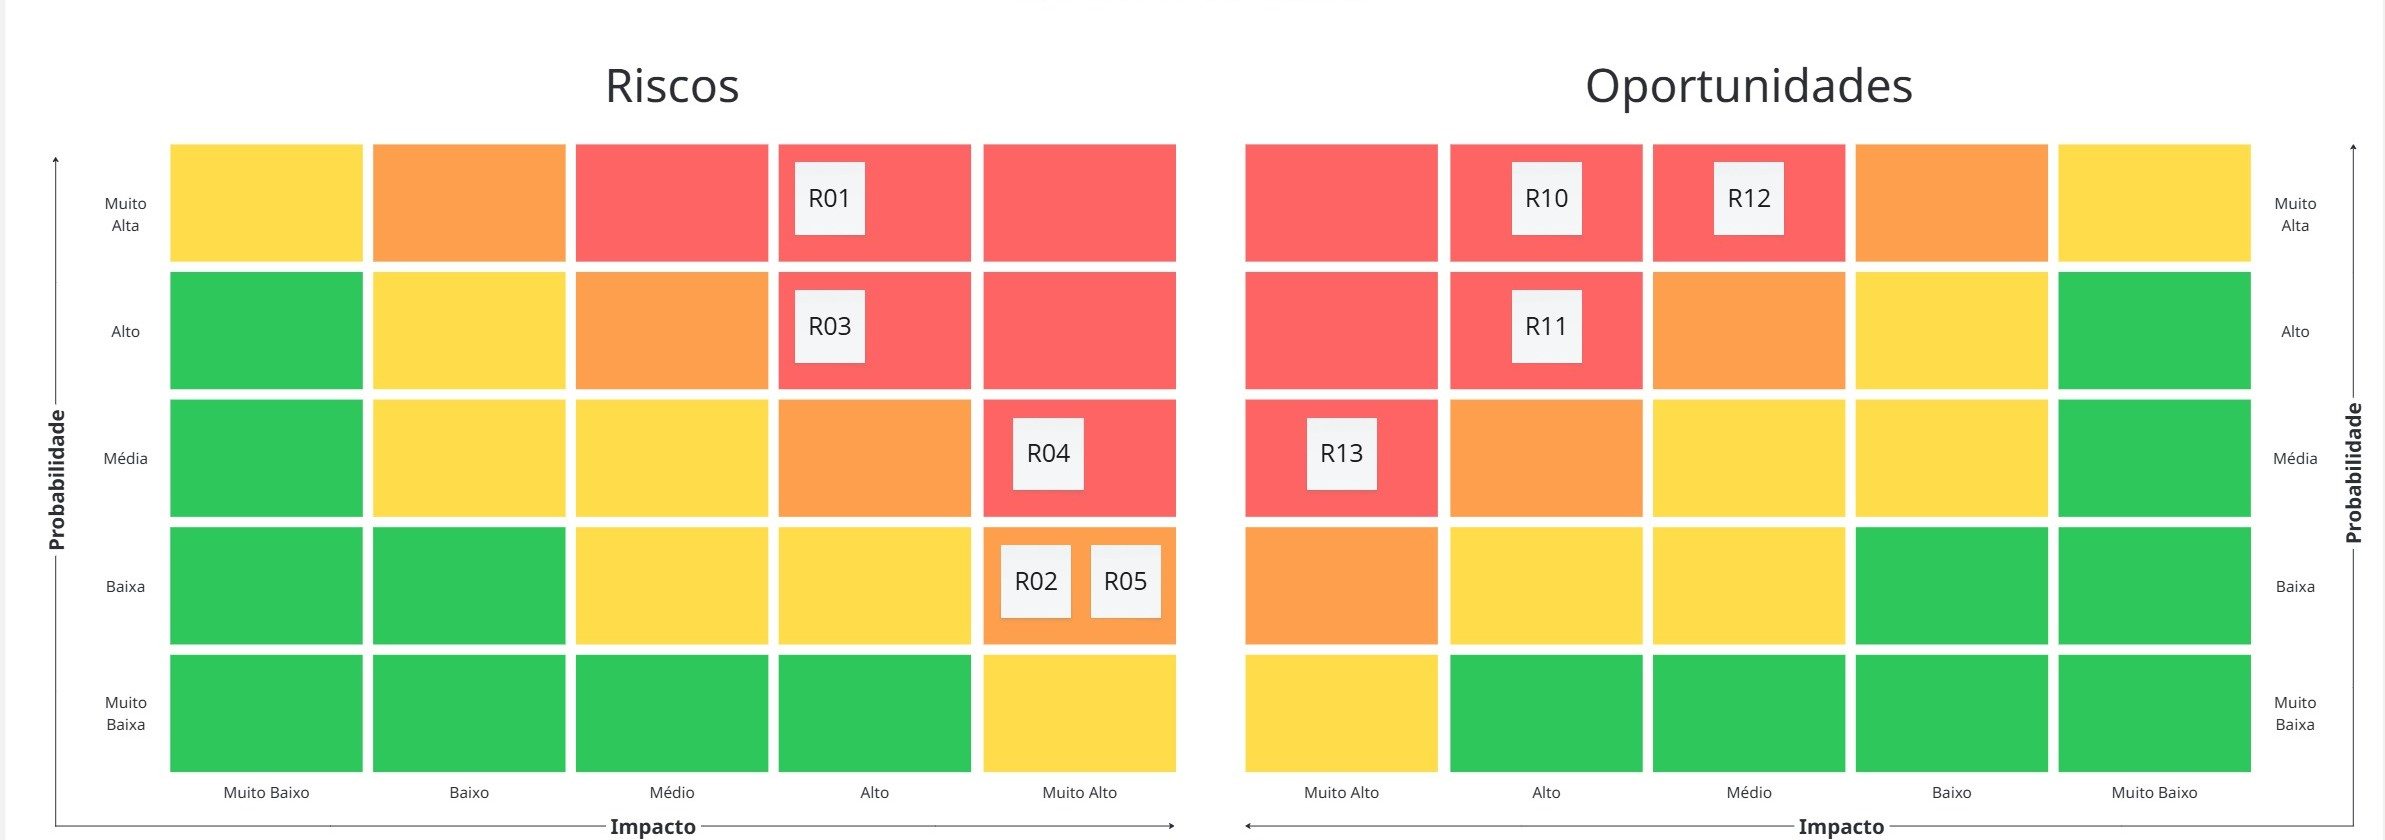
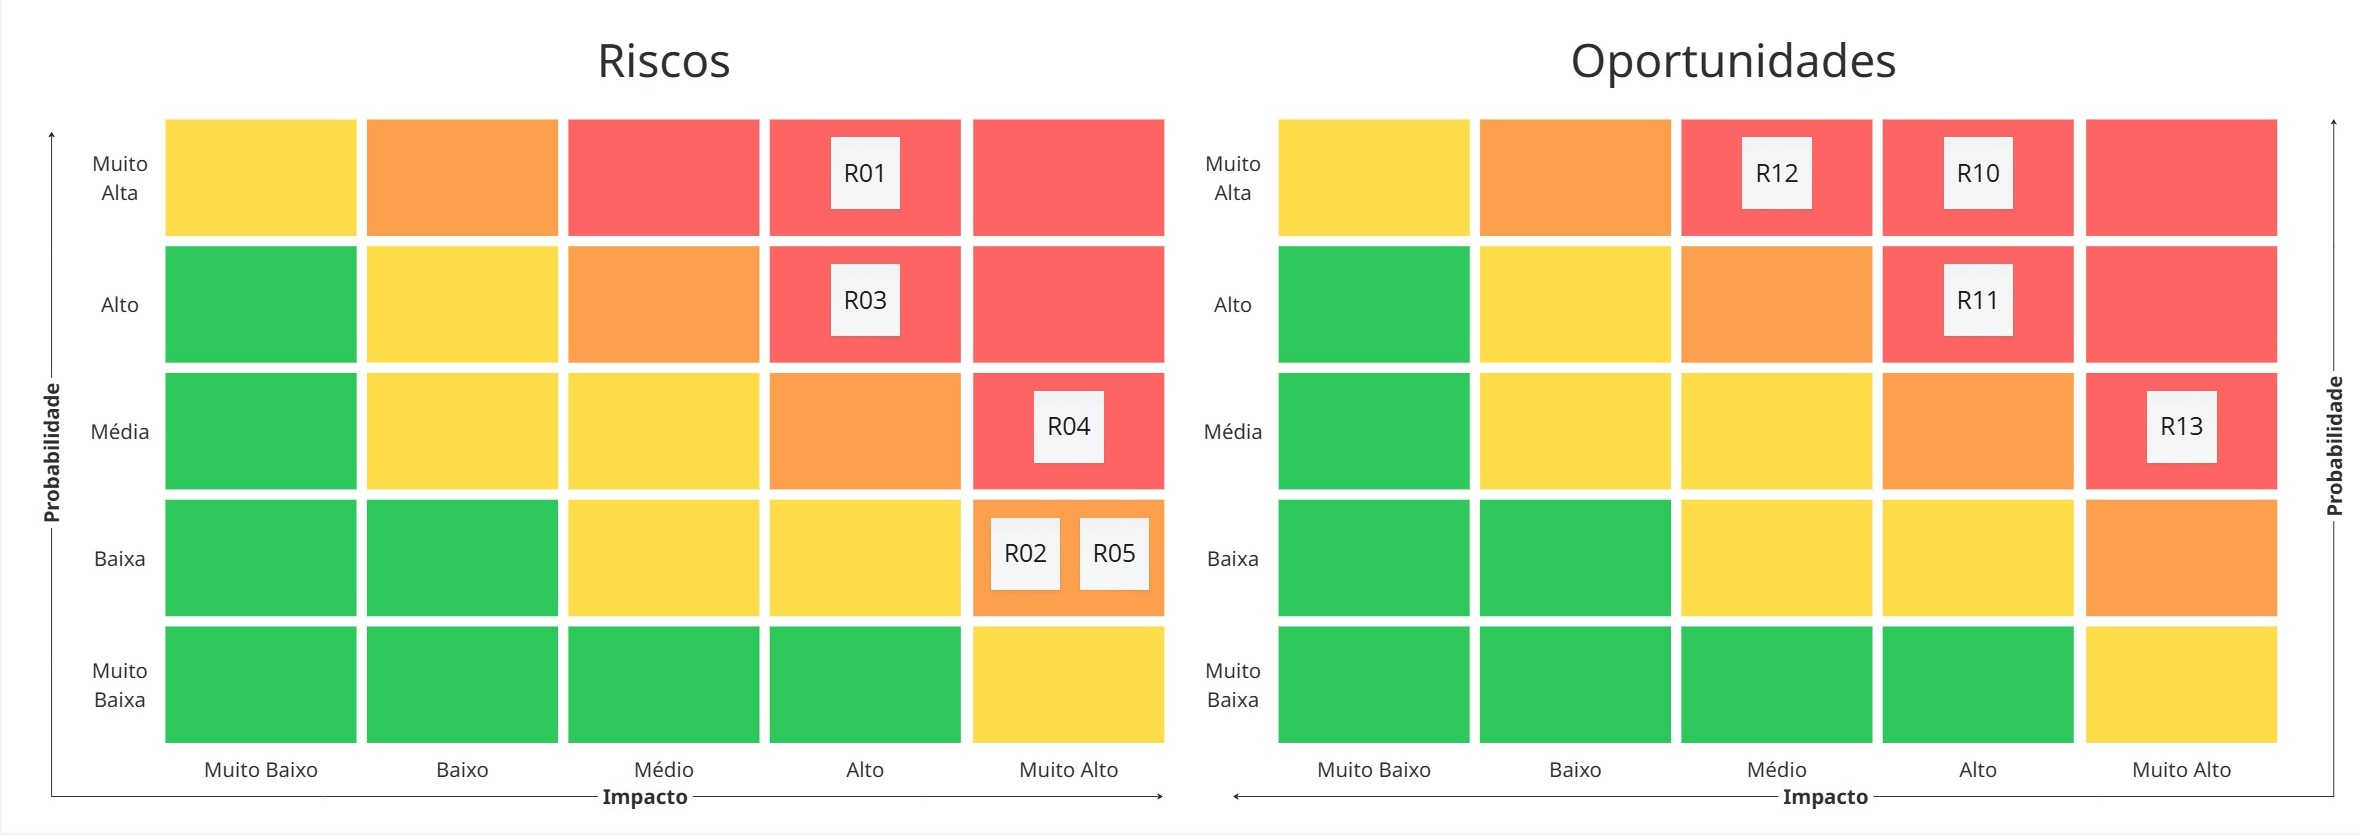
doc(matrizrisco): ajustado a tabela da matriz de risco e inserido legenda da tabela

diff --git a/documentos/wad.md b/documentos/wad.md
@@ -189,6 +189,11 @@ Sucesso medido por KPIs nas sprints iniciais: tempo de preenchimento inferior a 
     <p>Feito pela própria equipe (2026)</p>
 </div>
 
+<div align="center">
+    <img src="outros/legenda-matriz-risco.jpg" width="800">
+    <p>Legenda da matriz de riscos.    Feito pela própria equipe (2026)</p>
+</div>
+
 A Matriz de Riscos, também conhecida como Matriz de Probabilidade e Impacto, é uma ferramenta fundamental para o gerenciamento de riscos no projeto, pois permite identificar, classificar e priorizar os eventos que podem impactar seu desenvolvimento. Essa ferramenta auxilia na tomada de decisões estratégicas, direcionando esforços para mitigação de ameaças e aproveitamento de oportunidades no contexto da gestão de áreas de risco, acolhimento emergencial e logística humanitária. O conceito de risco está diretamente relacionado à combinação entre a probabilidade de ocorrência de um evento e o impacto que ele pode causar ao projeto. Dessa forma, riscos com alta probabilidade e alto impacto demandam maior atenção da equipe e dos stakeholders da Secretaria de Meio Ambiente e Defesa Civil, enquanto aqueles com menor criticidade podem ser monitorados com menor prioridade. Para este projeto, os riscos foram classificados em duas categorias principais: Riscos (ameaças) e Oportunidades (eventos positivos). O nível de criticidade foi definido a partir do cruzamento entre probabilidade e impacto, conforme os critérios apresentados a seguir.
 
 Escala de Probabilidade
